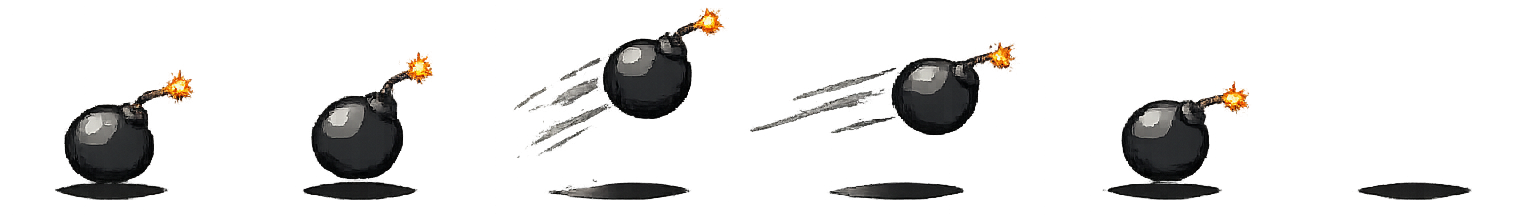
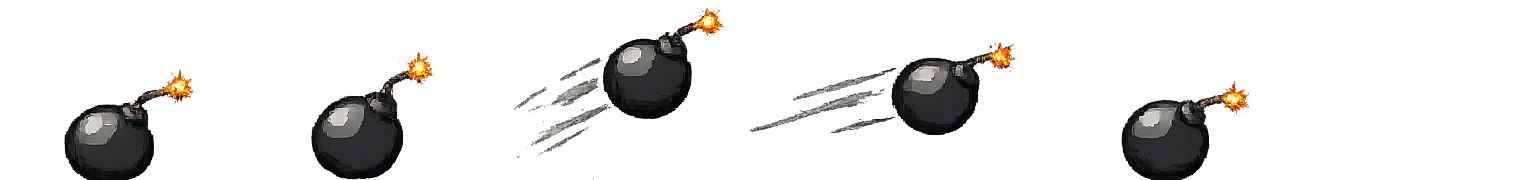
Bomb animation

diff --git a/TheCure/Entities/Player/Weapons/Throw/Throwable.cs b/TheCure/Entities/Player/Weapons/Throw/Throwable.cs
@@ -8,7 +8,7 @@ namespace TheCure.Weapons.Throw;
 
 public abstract class Throwable : GameObject
 {
-    private Texture2D _texture;
+    //private Texture2D _texture;
     private Vector2 _startPosition;
     public Vector2 _targetPosition;
     private Vector2 _position;
@@ -37,9 +37,10 @@ public abstract class Throwable : GameObject
 
     public override void Load()
     {
-        var content = ContentsManager.Get().GetContent();
-        _texture = content.Load<Texture2D>(_textureName);
+        SwitchAnimation(_textureName, 6, 12f, true);
+
         _shadow.Load();
+
         base.Load();
     }
 
@@ -70,11 +71,22 @@ public abstract class Throwable : GameObject
 
     public override void Draw(GameTime gameTime, SpriteBatch spriteBatch)
     {
-        spriteBatch.Draw(_texture, _position, null, _color, _rotation, Vector2.Zero, 1f, SpriteEffects.None, 0f);
+        if (_animatedSprite != null)
+        {
+            _animatedSprite.Draw(
+                spriteBatch,
+                _position,
+                _color,
+                _rotation,
+                0.5f
+            );
+        }
+
         _shadow.Draw(gameTime, spriteBatch);
+
         base.Draw(gameTime, spriteBatch);
     }
-
+    
     public virtual void OnImpact()
     {
         Destroy();
@@ -95,25 +107,30 @@ public abstract class Throwable : GameObject
 
 class Shadow : GameObject
 {
-    private Texture2D Texture;
     private CircleCollider _collider;
+    private Texture2D _texture;
 
     public Shadow(Vector2 position)
     {
         _collider = new CircleCollider(position, 5);
+        SetCollider(_collider);
     }
 
     public override void Load()
     {
-        var content = ContentsManager.Get().GetContent();
-        Texture = content.Load<Texture2D>("Bullet");
+        _texture = ContentsManager.Get().GetContent().Load<Texture2D>("Bullet");
         base.Load();
     }
 
     public override void Draw(GameTime gameTime, SpriteBatch spriteBatch)
     {
-        var offset = _collider.Center - new Vector2(Texture.Width / 2, Texture.Height / 2);
-        var color = new Color(255, 255, 255, 50);
-        spriteBatch.Draw(Texture, offset, color);
+        var rect = _collider.GetBoundingBox();
+
+        rect.Width = 12;
+        rect.Height = 6;
+
+        var color = Color.Black * 0.25f;
+
+        spriteBatch.Draw(_texture, rect, color);
     }
 }

diff --git a/TheCure/BaseObjects/Traps/Trap.cs b/TheCure/BaseObjects/Traps/Trap.cs
@@ -74,18 +74,40 @@ namespace TheCure.BaseObjects.Traps
 
         public override void Draw(GameTime gameTime, SpriteBatch spriteBatch)
         {
-            if (_texture == null || !_isActive)
+            if (!_isActive)
                 return;
-
-            var boundingBox = _collider.GetBoundingBox();
 
             float alpha = Math.Max(0.2f, 1f - (_elapsedTime / _maxDuration));
             Color drawColor = _currentColor * alpha;
 
-            spriteBatch.Draw(_texture, boundingBox, drawColor);
+            // Gebruik animatie ALS die bestaat
+            if (_animatedSprite != null)
+            {
+                DrawAnimatedSprite(spriteBatch, drawColor, Vector2.UnitX);
+            }
+            else if (_texture != null)
+            {
+                // Fallback naar gewone texture traps
+                var boundingBox = _collider.GetBoundingBox();
+                spriteBatch.Draw(_texture, boundingBox, drawColor);
+            }
 
             base.Draw(gameTime, spriteBatch);
         }
+        //public override void Draw(GameTime gameTime, SpriteBatch spriteBatch)
+        //{
+        //    if (_texture == null || !_isActive)
+        //        return;
+
+        //    var boundingBox = _collider.GetBoundingBox();
+
+        //    float alpha = Math.Max(0.2f, 1f - (_elapsedTime / _maxDuration));
+        //    Color drawColor = _currentColor * alpha;
+
+        //    spriteBatch.Draw(_texture, boundingBox, drawColor);
+
+        //    base.Draw(gameTime, spriteBatch);
+        //}
 
         public Vector2 GetPosition() => _collider.Center;
 

diff --git a/TheCure/Engine/GameObject.cs b/TheCure/Engine/GameObject.cs
@@ -45,10 +45,13 @@ namespace TheCure
 
         public virtual void Update(GameTime gameTime)
         {
+
             if (_isFlashing)
             {
                 _flashTimer -= (float)gameTime.ElapsedGameTime.TotalSeconds;
             }
+
+            _animatedSprite?.Update(gameTime);
 
             if (_healthBar != null && collider != null)
             {
@@ -75,6 +78,34 @@ namespace TheCure
             int frameWidth = texture.Width / frames;
 
             _animatedSprite = new AnimatedSprite(texture, frameWidth, texture.Height, frames, fps, loop, reverse);
+        }
+
+        protected void DrawAnimatedSprite(
+        SpriteBatch spriteBatch,
+        Color color,
+        Vector2 direction,
+        float scale = 2f)
+        {
+            if (_animatedSprite == null || collider == null)
+                return;
+
+            SpriteEffects effects = SpriteEffects.None;
+
+            if (direction.X < 0)
+            {
+                effects = SpriteEffects.FlipHorizontally;
+            }
+
+            Vector2 position = collider.GetBoundingBox().Center.ToVector2();
+
+            _animatedSprite.Draw(
+                spriteBatch,
+                position,
+                color,
+                0f,
+                scale,
+                effects
+            );
         }
 
         public void SetHealthBar(Texture2D texture, float maxHealth, float startHealth, Action onDeath,

diff --git a/TheCure/BaseObjects/Traps/HealBombTrap.cs b/TheCure/BaseObjects/Traps/HealBombTrap.cs
@@ -29,7 +29,9 @@ namespace TheCure.BaseObjects.Traps
 
         public override void Load()
         {
- 
+            SwitchAnimation("Bomb-throw", 6, 12f, false);
+
+            base.Load();
         }
 
         protected override void UpdateTrap(GameTime gameTime)
@@ -38,19 +40,21 @@ namespace TheCure.BaseObjects.Traps
 
             if (!_isExploding)
             {
-                SwitchAnimation("Bomb-throw", 6, 0.08f, false);
-
-                _throwAnimTime += deltaTime;
-
-                if (_throwAnimTime >= ThrowAnimDuration)
+                if (_animatedSprite != null && _animatedSprite.IsFinished)
                 {
                     _isExploding = true;
+
+                    SwitchAnimation("Bomb-explosion", 6, 12f, false);
                 }
             }
             else
             {
-                SwitchAnimation("Bomb-explosion", 6, 0.08f, false);
+                if (_animatedSprite != null && _animatedSprite.IsFinished)
+                {
+                    Destroy();
+                }
             }
+
 
             _healTickTimer -= deltaTime;
 

diff --git a/TheCure/Entities/Player/Weapons/Throw/HealBomb/HealBombObject.cs b/TheCure/Entities/Player/Weapons/Throw/HealBomb/HealBombObject.cs
@@ -1,4 +1,5 @@
 using Microsoft.Xna.Framework;
+using Microsoft.Xna.Framework.Graphics;
 
 namespace TheCure.Weapons.Throw;
 
@@ -27,6 +28,30 @@ class HealBombExplosion : GameObject
     {
         _collider = new CircleCollider(position, 50);
         SetCollider(_collider);
+    }
+
+    public override void Load()
+    {
+        SwitchAnimation("Bomb-explosion", 6, 12f, false);
+
+        base.Load();
+    }
+
+    public override void Update(GameTime gameTime)
+    {
+        if (_animatedSprite != null && _animatedSprite.IsFinished)
+        {
+            Destroy();
+        }
+
+        base.Update(gameTime);
+    }
+
+    public override void Draw(GameTime gameTime, SpriteBatch spriteBatch)
+    {
+        DrawAnimatedSprite(spriteBatch, Color.White, Vector2.UnitX, 0.6f);
+
+        base.Draw(gameTime, spriteBatch);
     }
 
     public override void OnCollision(GameObject other)

diff --git a/TheCure/Entities/Player/Weapons/Throw/HealBomb/HealBomb.cs b/TheCure/Entities/Player/Weapons/Throw/HealBomb/HealBomb.cs
@@ -8,7 +8,7 @@ public class HealBomb : BaseWeapon
 
     public override void Fire(Vector2 position, Vector2 direction)
     {
-        HealBombObject healBombObject = new HealBombObject(position, direction, "Bullet");
+        HealBombObject healBombObject = new HealBombObject(position, direction, "Bomb-throw");
         GameManager.Get().AddGameObject(healBombObject);
 
         ResetCoolDown();
